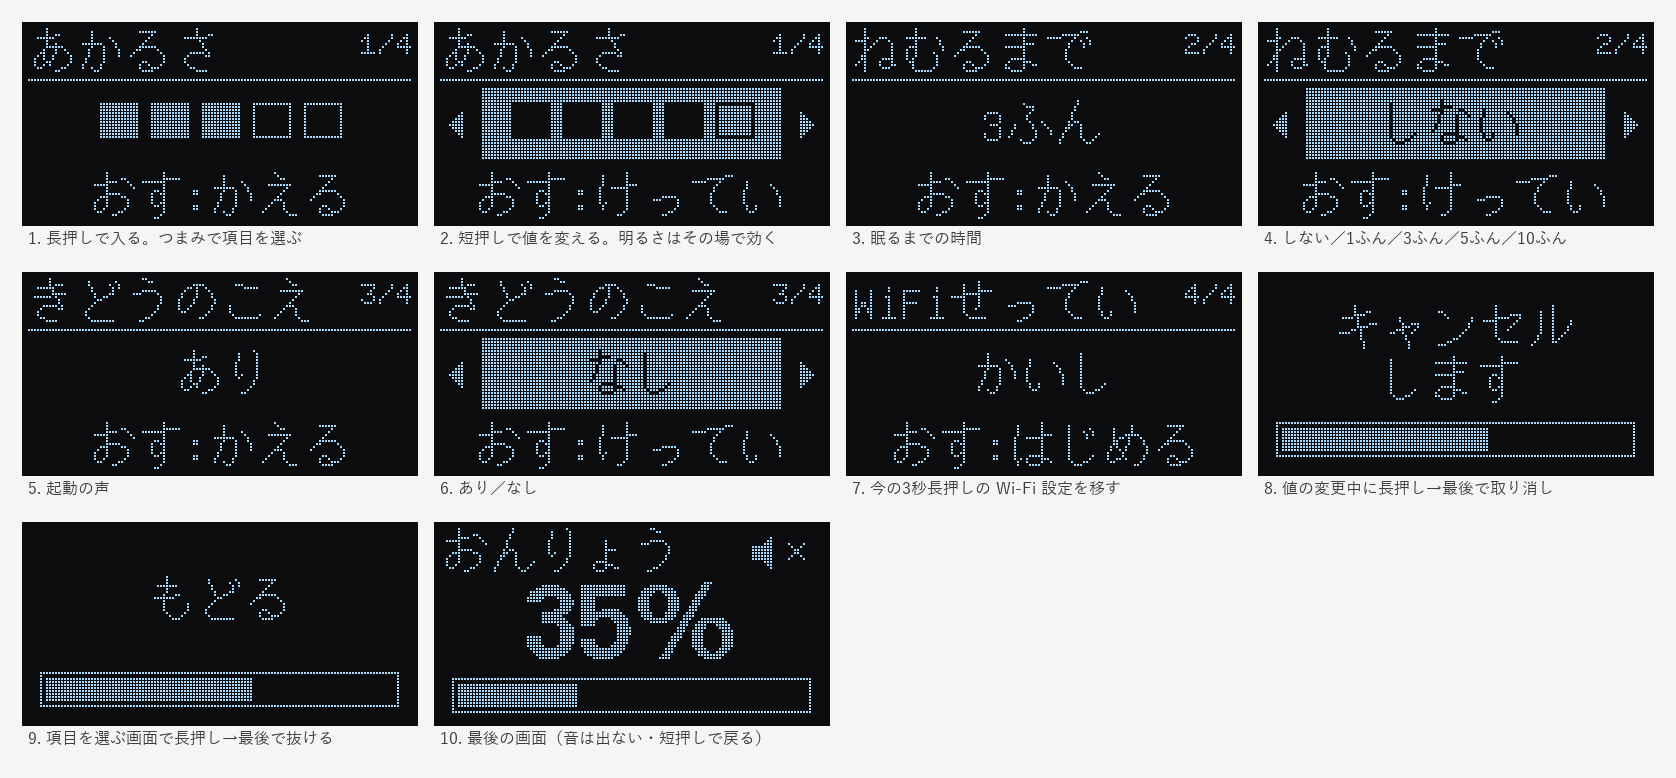
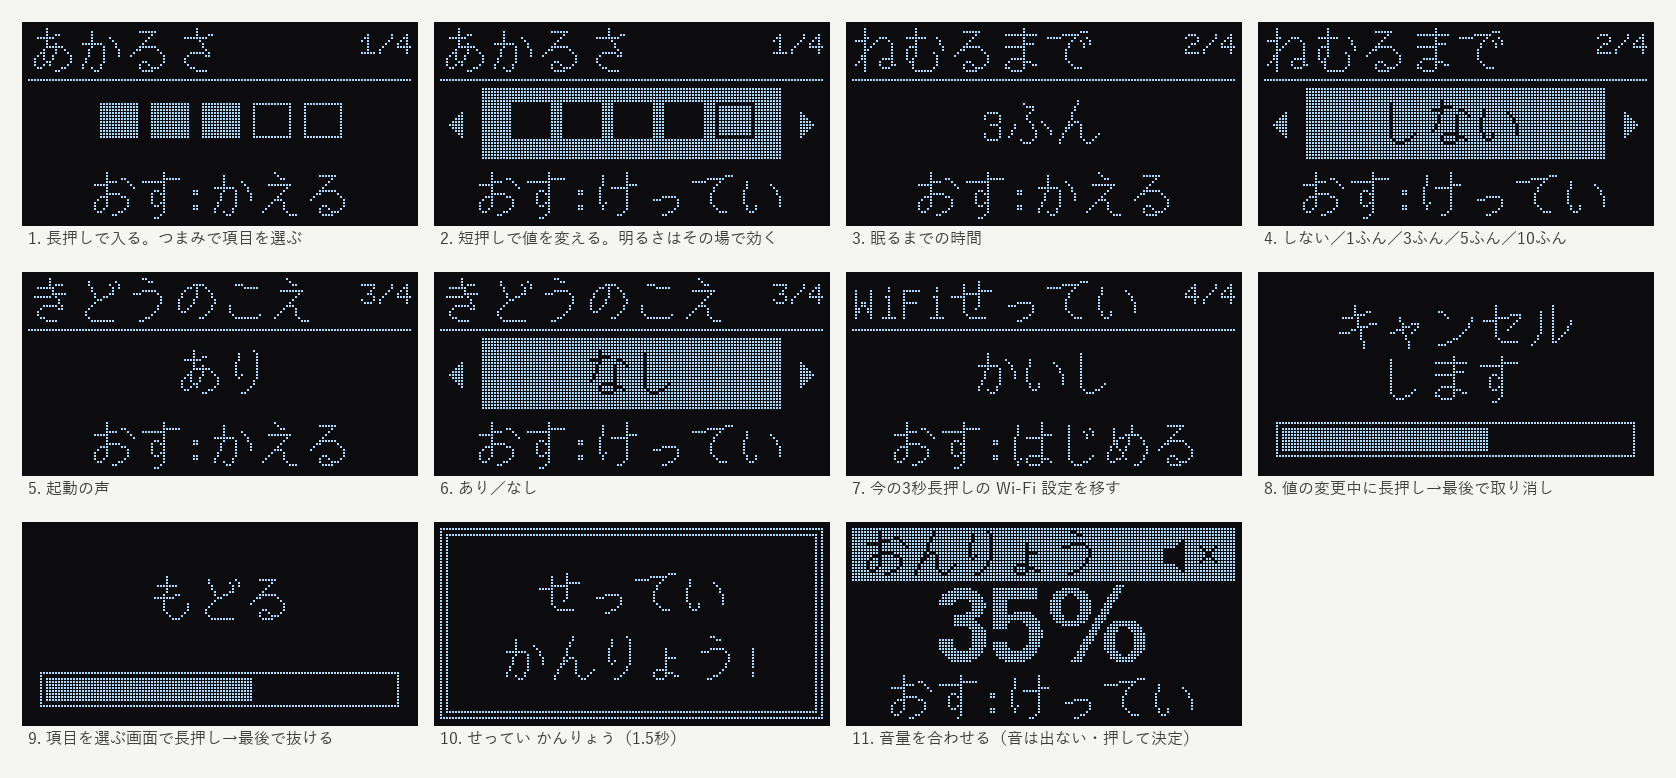
メニュー: 抜けるとき「せってい かんりょう!」→ 帯を白抜きにした音量の画面（🔒 ユーザー 2026-09-11「普通の音量画面と似てるから意味不明」）・メニュー中はファームの OFF 判定を止めて手前で「OFFのてまえ」（同「設定画面でもOFFになっちゃうのはまずい」）

Changed region(s): [[0.2482, 0.6478, 0.7446, 0.9563], [0.2482, 0.7404, 0.4654, 0.9563]]

diff --git a/firmware/esp32/src/main.cpp b/firmware/esp32/src/main.cpp
@@ -904,6 +904,15 @@ static void pumpKnobAs5600(uint32_t now) {
 
     uint16_t rel = knobRelAngle(as5600Word(buf));
 
+    // メニューの間は、つまみはメニューの入力。音量は変えず、ファームの OFF 判定もしない。
+    // 🔒 ユーザー 2026-09-11「設定画面でもOFFになっちゃうのはまずい」: 回して項目を選ぶうちに
+    //    OFF閾値（15度）へ入っても、メニューは閉じない。OFF の止まり手前（約5度）でリードが
+    //    電源を切るのはハードなので止められない。手前に入ったら画面で知らせる（drawMenuScreen）
+    if (menuActive()) {
+        menuOnKnob(as5600Word(buf));
+        return;
+    }
+
     // --- OFF判定（角度の閾値。3度のヒステリシス + 30msデバウンス） ---
     static bool rawLast = false;
     static uint32_t rawChangedMs = 0;
@@ -920,15 +929,6 @@ static void pumpKnobAs5600(uint32_t now) {
             inited = true;
             knobSetOffState(rawOff);
         }
-    }
-
-    // メニューの間は、つまみはメニューの入力。音量は変えない（最後の値のまま）。
-    // OFF 判定だけは上で済ませてある（回し切ればメニューごと閉じて電源が落ちる）
-    if (menuActive()) {
-        if (!knobOff) {
-            menuOnKnob(as5600Word(buf));
-        }
-        return;
     }
 
     // 12bitの角度はADCと違ってほぼ揺れないので、IIRは掛けずそのまま%へ。
@@ -1878,7 +1878,8 @@ static IdleStage idleStageNow() {
 // 短押しで決めると普段に戻り、次の周回でつまみの位置が音量になる。
 // ---------------------------------------------------------------------------
 
-enum class MenuMode : uint8_t { Off, Browse, Edit, Volume };
+// Done = 「せってい かんりょう!」を出している 1.5 秒。その後 Volume（音量を合わせる画面）
+enum class MenuMode : uint8_t { Off, Browse, Edit, Done, Volume };
 static MenuMode menuMode = MenuMode::Off;
 static uint8_t menuItem = 0;
 /** 値を変えている最中の選択肢の番号と、長押しで取り消したときに戻す番号。 */
@@ -1889,6 +1890,9 @@ static uint16_t menuAnchorRaw = 0;
 /** つまみの今の RAW ANGLE（おんりょうの画面と、基準の取り直しに使う）。 */
 static uint16_t menuKnobRaw = 0;
 static uint32_t menuLastInputMs = 0;
+/** 「せってい かんりょう!」を消して音量の画面へ進む時刻。 */
+static uint32_t menuDoneUntilMs = 0;
+static constexpr uint32_t kMenuDoneMs = 1500;
 /** メニューから Wi-Fi 設定へ入った。設定モードを抜けたら「おんりょう」の画面を通す。 */
 static bool menuVolumeAfterProv = false;
 
@@ -1966,10 +1970,21 @@ static void menuEnter() {
     Serial.println("[MENU] メニューに入りました（つまみで選ぶ・短押しで決定・長押しで戻る）");
 }
 
-/** 最後の「おんりょう」の画面へ進む。 */
-static void menuToVolume() {
-    menuMode = MenuMode::Volume;
+/**
+ * 最後の「おんりょう」の画面へ進む。showDone なら先に「せってい かんりょう!」を 1.5 秒出す。
+ * 🔒 ユーザー 2026-09-11「設定完了！という画面＋終わった後の音量画面」「普通の音量画面と
+ *    似てるから意味不明」: 音量の画面は上の帯を白抜きにし、棒をやめて「おす:けってい」を出す
+ *    （見本 docs/img_menu_end_mock.png）。時間切れや Wi-Fi 設定の後は「かんりょう」を出さない。
+ */
+static void menuToVolume(bool showDone) {
     menuLastInputMs = millis();
+    if (showDone) {
+        menuMode = MenuMode::Done;
+        menuDoneUntilMs = millis() + kMenuDoneMs;
+        Serial.println("[MENU] せってい かんりょう");
+        return;
+    }
+    menuMode = MenuMode::Volume;
     Serial.println("[MENU] おんりょうの画面（音は出しません。短押しで決めて戻ります）");
 }
 
@@ -2047,6 +2062,9 @@ static void menuShortPress() {
         menuAnchorRaw = menuKnobRaw;
         menuMode = MenuMode::Browse;
         break;
+    case MenuMode::Done:
+        menuToVolume(false); // 押したら待たずに音量の画面へ
+        break;
     case MenuMode::Volume:
         menuFinish();
         break;
@@ -2068,11 +2086,10 @@ static void menuLongPress() {
         menuMode = MenuMode::Browse;
         break;
     case MenuMode::Browse:
-        menuToVolume();
+        menuToVolume(true);
         break;
+    case MenuMode::Done:
     case MenuMode::Volume:
-        menuFinish();
-        break;
     case MenuMode::Off:
         break;
     }
@@ -2080,6 +2097,10 @@ static void menuLongPress() {
 
 /** 触られないまま時間が過ぎたら、おんりょうの画面まで進める。main loop から毎回呼ぶ。 */
 static void pumpMenu() {
+    if (menuMode == MenuMode::Done && (int32_t)(millis() - menuDoneUntilMs) >= 0) {
+        menuToVolume(false);
+        return;
+    }
     if (menuMode != MenuMode::Browse && menuMode != MenuMode::Edit) {
         return;
     }
@@ -2090,7 +2111,7 @@ static void pumpMenu() {
         menuRestoreContrast();
     }
     Serial.println("[MENU] 30秒触られなかったので、変えかけの値は捨てて閉じます");
-    menuToVolume();
+    menuToVolume(false);
 }
 
 static void drawMenuCentered(const char* text, int baselineY) {
@@ -2124,11 +2145,21 @@ static void drawMenuScreen() {
         return;
     }
 
-    if (menuMode == MenuMode::Volume) {
+    if (menuMode == MenuMode::Done) {
+        // 「せってい かんりょう!」（二重の枠。全角の「！」はフォントに無いので半角）
+        u8g2.drawFrame(0, 0, 128, 64);
+        u8g2.drawFrame(2, 2, 124, 60);
         u8g2.setFont(u8g2_font_b16_t_japanese1);
-        u8g2.drawUTF8(0, 14, "おんりょう");
+        drawMenuCentered("せってい", 28);
+        drawMenuCentered("かんりょう!", 50);
+    } else if (menuMode == MenuMode::Volume) {
+        // 普段の音量の画面と見分けるため、上の帯を白抜きにし、棒は出さない
+        u8g2.drawBox(0, 0, 128, 18);
+        u8g2.setDrawColor(0);
+        u8g2.setFont(u8g2_font_b16_t_japanese1);
+        u8g2.drawUTF8(3, 15, "おんりょう");
         // 音を出していない印（スピーカーに ×）
-        const int sx = 104, sy = 3;
+        const int sx = 104, sy = 4;
         u8g2.drawBox(sx, sy + 3, 3, 5);
         for (int i = 0; i < 4; ++i) {
             u8g2.drawVLine(sx + 3 + i, sy + 3 - i, 5 + 2 * i);
@@ -2137,16 +2168,14 @@ static void drawMenuScreen() {
             u8g2.drawPixel(sx + 12 + k, sy + 2 + k);
             u8g2.drawPixel(sx + 17 - k, sy + 2 + k);
         }
+        u8g2.setDrawColor(1);
         int pct = knobAngleToPercent(knobRelAngle(menuKnobRaw));
         char buf[8];
         snprintf(buf, sizeof(buf), pct <= 0 ? "OFF" : "%d%%", pct);
         u8g2.setFont(u8g2_font_fub25_tr);
-        u8g2.drawStr((128 - u8g2.getStrWidth(buf)) / 2, 44, buf);
-        u8g2.drawFrame(4, 50, 120, 12);
-        int fill = pct * 116 / 100;
-        if (fill > 0) {
-            u8g2.drawBox(6, 52, fill, 8);
-        }
+        u8g2.drawStr((128 - u8g2.getStrWidth(buf)) / 2, 45, buf);
+        u8g2.setFont(u8g2_font_b16_t_japanese1);
+        drawMenuCentered("おす:けってい", 63);
     } else {
         const bool editing = (menuMode == MenuMode::Edit);
         const uint8_t v = editing ? menuValue : menuStoredValue(menuItem);
@@ -2187,7 +2216,15 @@ static void drawMenuScreen() {
                 u8g2.drawVLine(120 + 4 - i, 32 - i, 2 * i + 1); // ▶
             }
         }
-        drawMenuCentered(editing ? "おす:けってい" : (menuItem == 3 ? "おす:はじめる" : "おす:かえる"), 62);
+        if (knobRelAngle(menuKnobRaw) <= kKnobOffRaw) {
+            // ファームの OFF 閾値の内側。これ以上回すとリードが電源を切る
+            u8g2.drawBox(0, 47, 128, 17);
+            u8g2.setDrawColor(0);
+            drawMenuCentered("OFFのてまえ", 62);
+            u8g2.setDrawColor(1);
+        } else {
+            drawMenuCentered(editing ? "おす:けってい" : (menuItem == 3 ? "おす:はじめる" : "おす:かえる"), 62);
+        }
     }
 
     u8g2.setFontMode(0);
@@ -3755,7 +3792,7 @@ static void exitProvisioning() {
     // メニューから入った Wi-Fi 設定を抜けた。メニューの終わりと同じく、おんりょうの画面を通す
     if (menuVolumeAfterProv) {
         menuVolumeAfterProv = false;
-        menuToVolume();
+        menuToVolume(false);
     }
 }
 
@@ -3811,7 +3848,7 @@ static void handleButton() {
             uint32_t held = now - menuHoldStartMs;
             menuHoldStartMs = 0;
             if (!longFired) {
-                if (menuMode == MenuMode::Volume || held < kMenuTapMs) {
+                if (menuMode == MenuMode::Volume || menuMode == MenuMode::Done || held < kMenuTapMs) {
                     menuShortPress();
                 } else {
                     Serial.println("[MENU] 長押しを途中でやめました（何もしません）");
@@ -3838,7 +3875,7 @@ static void handleButton() {
     if (pressed && !longFired && (now - pressedAtMs) >= KATANORI_LONG_PRESS_MS) {
         if (menuActive()) {
             // おんりょうの画面では長押しに役目は無い（離したときに決定する）
-            if (menuMode != MenuMode::Volume && menuHoldStartMs != 0) {
+            if ((menuMode == MenuMode::Browse || menuMode == MenuMode::Edit) && menuHoldStartMs != 0) {
                 longFired = true;
                 menuLongPress();
             }
